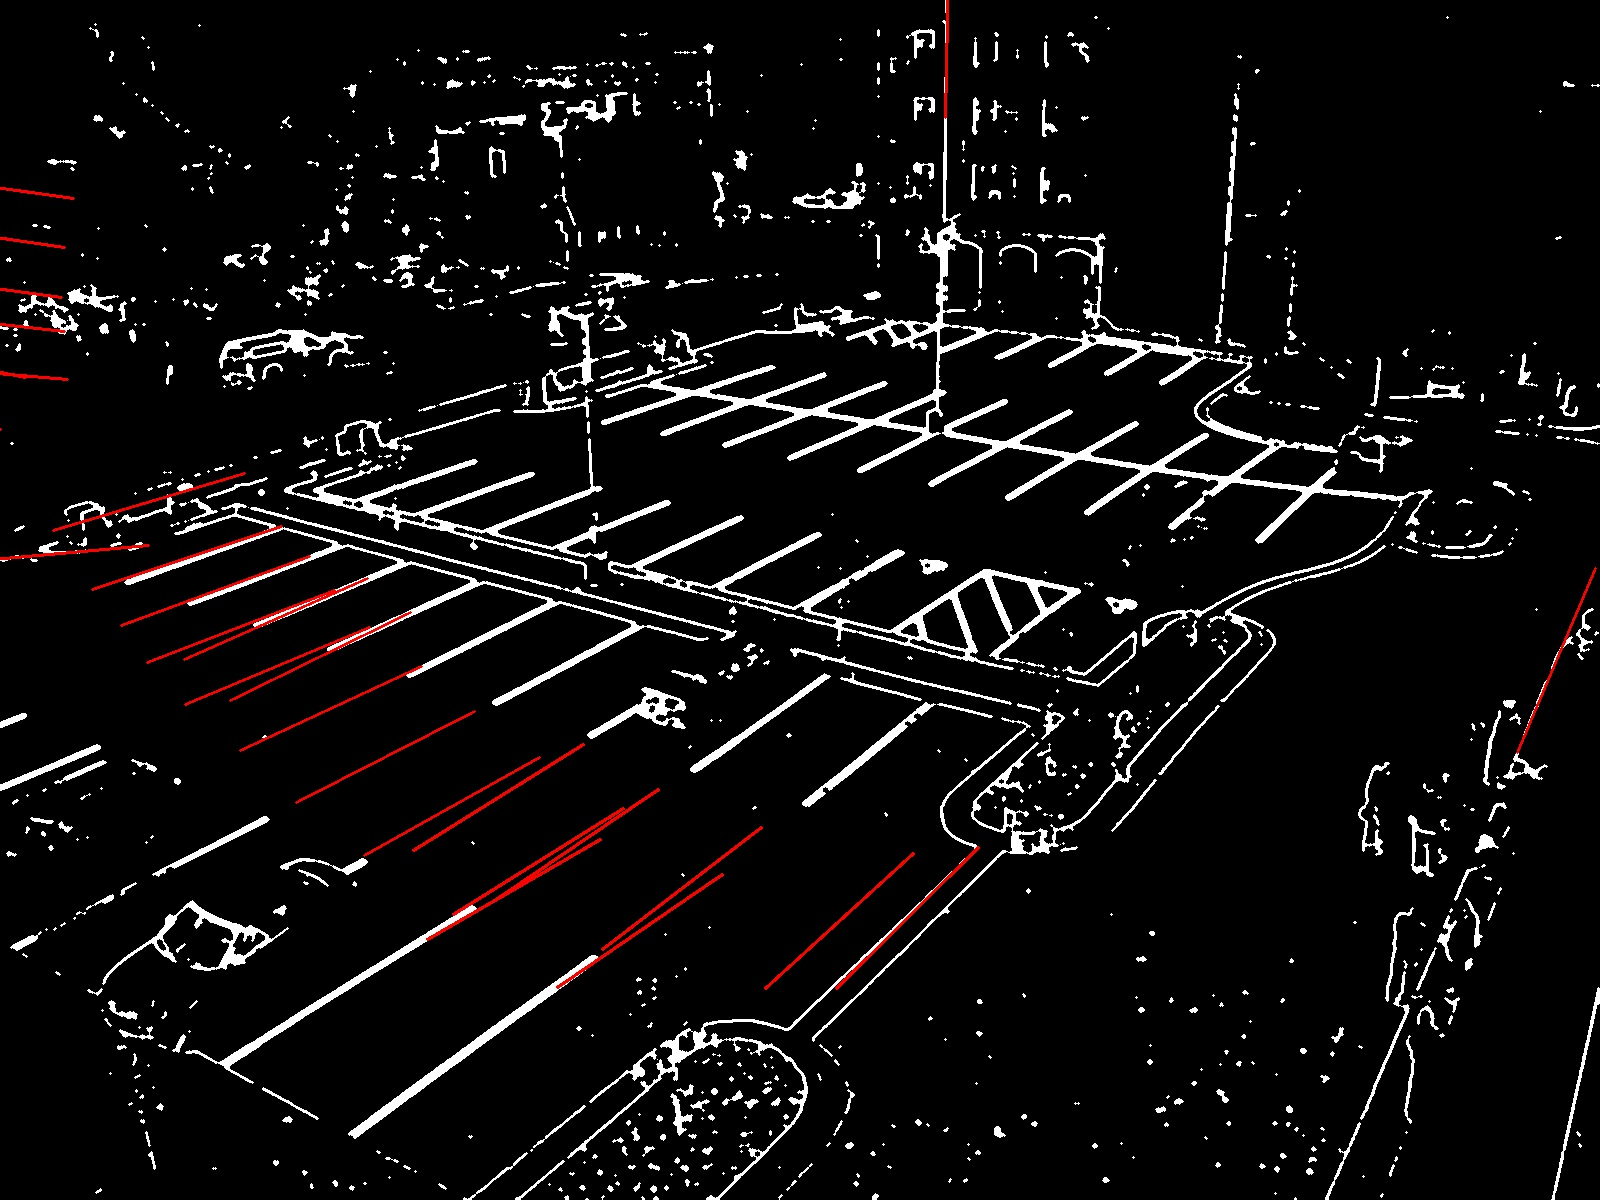
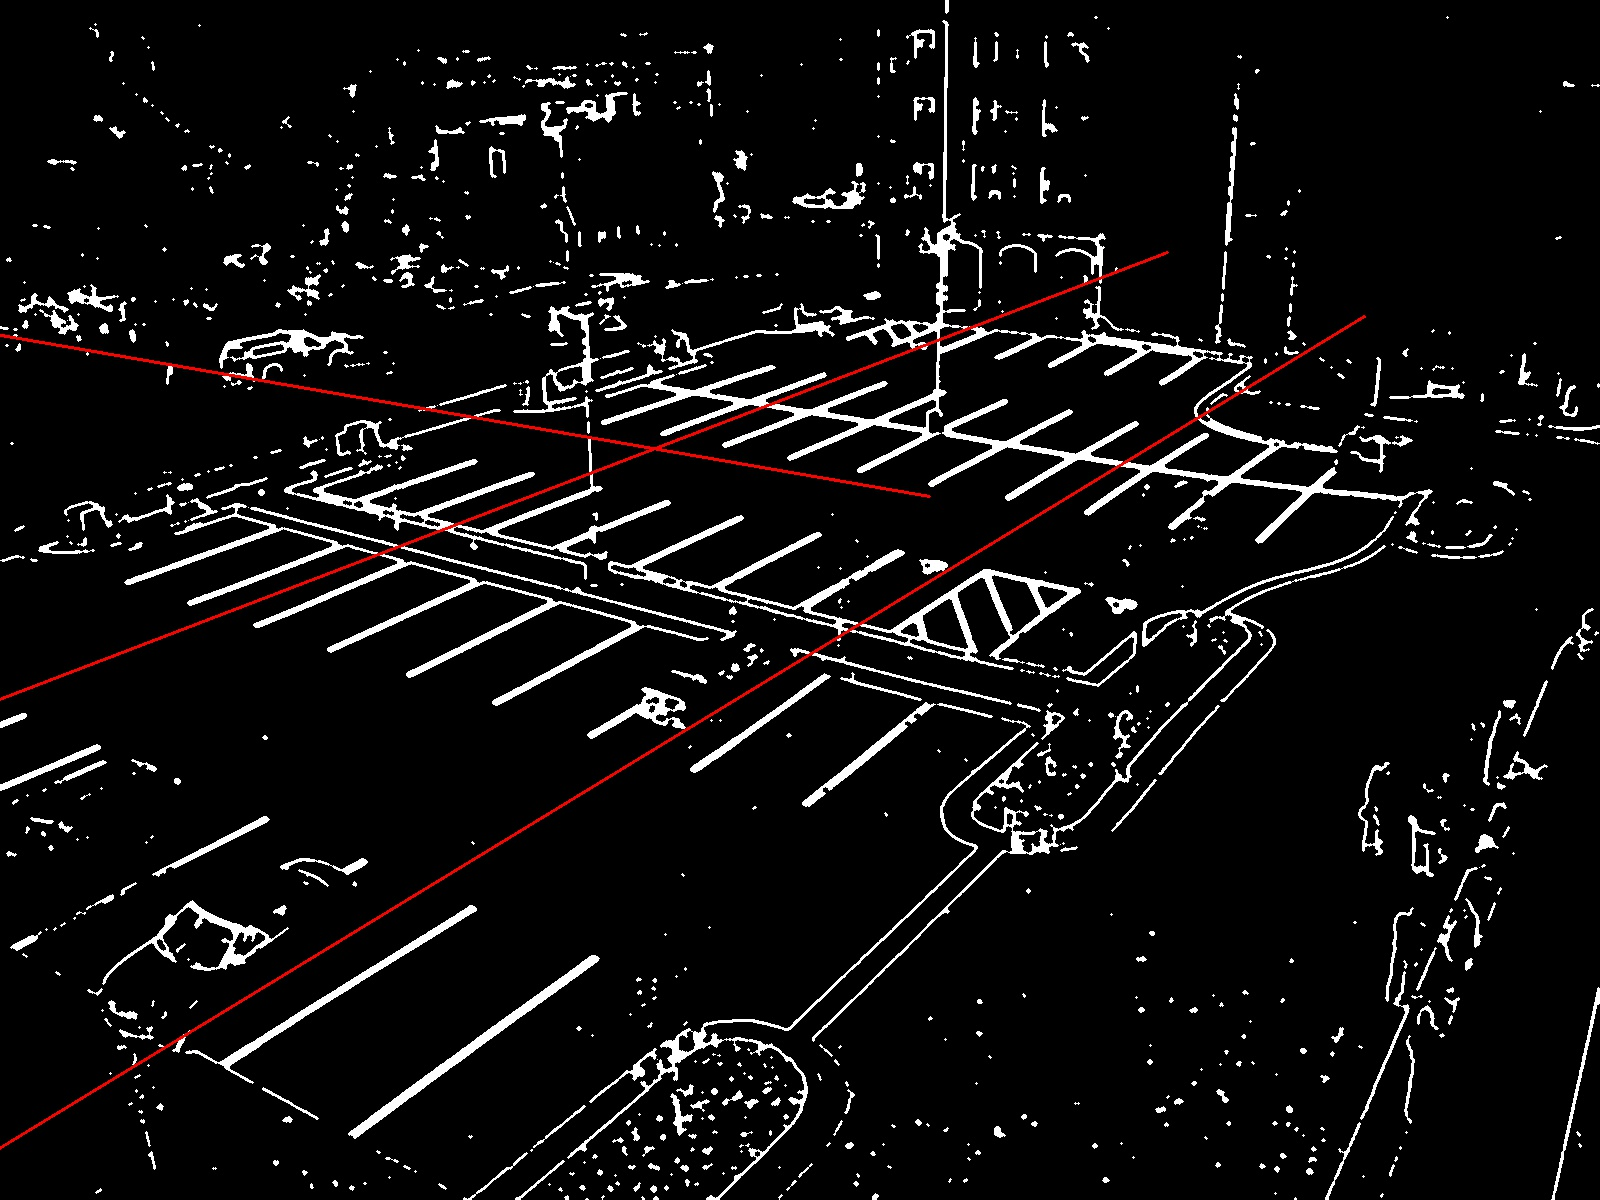
Muda algoritmo de similaridade

diff --git a/src/main.cpp b/src/main.cpp
@@ -1,5 +1,3 @@
-#include <cfloat>
-
 #include <opencv2/opencv.hpp>
 
 using namespace cv;
@@ -33,16 +31,16 @@ Mat ExtractFeatureMat(Mat featuresMat, int featureNum);
 #define MAX_LINE_GAP 5.
 #define TAM_DILATA 7 // Pixels
 #define TAM_ERODE 5 // Pixels
-#define TAM_LINE 100 // Pixels
+#define TAM_LINE 1000 // Pixels
 // Termina Hough
 
 // Começa AKM
 #define SENSIBILITY 5.
-#define LINE_THRES 70.
-#define SEGLINE_THRES 50.
+#define LINE_THRES 0.5
+#define LINE_MAX_DIST 75
 
-std::vector<Vec2f> AKM( std::vector<Vec2f> input, float threshold, unsigned int minLines = 1 );
-std::vector<Vec4i> AKM( std::vector<Vec4i> input, float threshold, unsigned int minLines = 1 );
+std::vector<Vec2f> AKM( std::vector<Vec2f> input, float threshold, float lineMaxDist = LINE_MAX_DIST, unsigned int minLines = 1 );
+double linesSimilarity( Vec2f lineA, Vec2f lineB, float maxDistance = 50 );
 // Termina AKM
 
 int main(int argc, char** argv){
@@ -333,12 +331,13 @@ int main(int argc, char** argv){
 
 			// Compute e desenha a clusterização adaptativa
 			std::vector<Vec2f> clusters = AKM(lines, LINE_THRES);
+			std::vector<Vec2f> clustersOfClusters = AKM(clusters, 0.9, 100000, 3);
 
 			Mat houghWithClusteredLines = gray.clone();
 			cvtColor(operado, houghWithClusteredLines, COLOR_GRAY2BGR);
-			for( unsigned int i = 0; i < clusters.size(); i++ ) {
-				float rho = clusters[i][0];
-				float theta = clusters[i][1];
+			for( unsigned int i = 0; i < clustersOfClusters.size(); i++ ) {
+				float rho = clustersOfClusters[i][0];
+				float theta = clustersOfClusters[i][1];
 
 				double a = cos(theta), b = sin(theta);
 				double x0 = a*rho, y0 = b*rho;
@@ -350,32 +349,6 @@ int main(int argc, char** argv){
 
 			// imshow("Hough - Linhas Clusterizadas", houghWithClusteredLines);
 			imwrite("./debug-data/hough-linhas-cluster.jpg", houghWithClusteredLines);
-		}
-
-		{ // Acha os segmentos de linhas por Hough
-			std::vector<Vec4i> segLines;
-			HoughLinesP(operado, segLines, DIST_RES, ANGLE_RES, HOUGH_THRES, MIN_LINE_LEN, MAX_LINE_GAP);
-
-			Mat houghWithLines = gray.clone();
-			cvtColor(operado, houghWithLines, COLOR_GRAY2BGR);
-			for( unsigned int i = 0; i < segLines.size(); i++ ) {
-				line( houghWithLines, Point(segLines[i][0], segLines[i][1]), Point(segLines[i][2], segLines[i][3]), Scalar(0,0,255), 1, 8 );
-			}
-
-			// imshow("Hough - Segmento de Linhas", houghWithLines);
-			imwrite("./debug-data/hough-segmentolinhas.jpg", houghWithLines);
-
-			// Compute e desenha a clusterização adaptativa
-			std::vector<Vec4i> clusters = AKM(segLines, SEGLINE_THRES);
-
-			Mat houghWithClusteredLines = gray.clone();
-			cvtColor(operado, houghWithClusteredLines, COLOR_GRAY2BGR);
-			for( unsigned int i = 0; i < clusters.size(); i++ ) {
-				line( houghWithClusteredLines, Point(clusters[i][0], clusters[i][1]), Point(clusters[i][2], clusters[i][3]), Scalar(0,0,255), 2, 8 );
-			}
-
-			// imshow("Hough - Segmento de Linhas Clusterizado", houghWithClusteredLines);
-			imwrite("./debug-data/hough-segmentolinhas-cluster.jpg", houghWithClusteredLines);
 		}
 	}
 	// Termina Hough
@@ -400,77 +373,28 @@ Mat ExtractFeatureMat(Mat featuresMat, int featureNum) {
 // Termina GLCM
 
 // Começa AKM
-std::vector<Vec2f> AKM( std::vector<Vec2f> input, float threshold, unsigned int minLines ) {
+std::vector<Vec2f> AKM( std::vector<Vec2f> input, float threshold, float lineMaxDist, unsigned int minLines ) {
 	std::vector<Vec2f> means;
 	std::vector<unsigned int> amount;
 	means.push_back(input[0]);
 	amount.push_back(1);
 	for(unsigned int i = 1; i < input.size(); ++i) {
-		unsigned int smallestK = 0;
-		float smallestDist = FLT_MAX;
-
-		Point pt1, pt2;
-		{ // Computa pontos iniciais e finais da linha
-			float rho = input[i][0];
-			float theta = input[i][1];
-
-			double a = cos(theta), b = sin(theta);
-			double x0 = a*rho, y0 = b*rho;
-
-			pt1 = Point(cvRound( x0 + SENSIBILITY*(-b) ), cvRound( y0 + SENSIBILITY*a ));
-			pt2 = Point(cvRound( x0 - SENSIBILITY*(-b) ), cvRound( y0 - SENSIBILITY*a ));
-		}
+		unsigned int closestK = 0;
+		double biggestSimilarity = 0.;
 		for(unsigned int k = 0; k < means.size(); ++k) {
-			Point ptM1, ptM2;
-			{ // Computa pontos iniciais e finais da linha
-				float rho = means[k][0];
-				float theta = means[k][1];
-
-				double a = cos(theta), b = sin(theta);
-				double x0 = a*rho, y0 = b*rho;
-
-				ptM1 = Point(cvRound( x0 + SENSIBILITY*(-b) ), cvRound( y0 + SENSIBILITY*a ));
-				ptM2 = Point(cvRound( x0 - SENSIBILITY*(-b) ), cvRound( y0 - SENSIBILITY*a ));
-			}
-			Point distance1 = pt1 - ptM1;
-			Point distance2 = pt2 - ptM2;
-			float dist = std::sqrt( std::pow(distance1.x, 2) + std::pow(distance1.y, 2) ) + std::sqrt( std::pow(distance2.x, 2) + std::pow(distance2.y, 2) );
-			if(dist < smallestDist) {
-				smallestDist = dist;
-				smallestK = k;
+			double similarity = linesSimilarity(input[i], means[k], lineMaxDist);
+			if(similarity > biggestSimilarity) {
+				biggestSimilarity = similarity;
+				closestK = k;
 			}
 		}
-		if(smallestDist < threshold) {
-			Vec2f oldMean = means[smallestK] * ((float)amount[smallestK]++);
-			means[smallestK] = (oldMean + input[i])/((float)amount[smallestK]);
+		if(biggestSimilarity > threshold) {
+			Vec2f oldMean = means[closestK] * ((float)amount[closestK]++);
+			means[closestK] = (oldMean + input[i])/((float)amount[closestK]);
 			for(unsigned int a = 0; a < means.size(); ++a) {
-				Point pt1, pt2;
-				{ // Computa pontos iniciais e finais da linha
-					float rho = means[a][0];
-					float theta = means[a][1];
-
-					double c = cos(theta), s = sin(theta);
-					double x0 = c*rho, y0 = s*rho;
-
-					pt1 = Point(cvRound( x0 + SENSIBILITY*(-s) ), cvRound( y0 + SENSIBILITY*c ));
-					pt2 = Point(cvRound( x0 - SENSIBILITY*(-s) ), cvRound( y0 - SENSIBILITY*c ));
-				}
 				for(unsigned int b = a+1; b < means.size(); ++b) {
-					Point ptM1, ptM2;
-					{ // Computa pontos iniciais e finais da linha
-						float rho = means[b][0];
-						float theta = means[b][1];
-
-						double c = cos(theta), s = sin(theta);
-						double x0 = c*rho, y0 = s*rho;
-
-						ptM1 = Point(cvRound( x0 + SENSIBILITY*(-s) ), cvRound( y0 + SENSIBILITY*c ));
-						ptM2 = Point(cvRound( x0 - SENSIBILITY*(-s) ), cvRound( y0 - SENSIBILITY*c ));
-					}
-					Point distance1 = pt1 - ptM1;
-					Point distance2 = pt2 - ptM2;
-					float dist = std::sqrt( std::pow(distance1.x, 2) + std::pow(distance1.y, 2) ) + std::sqrt( std::pow(distance2.x, 2) + std::pow(distance2.y, 2) );
-					if(dist < threshold) {
+					double similarity = linesSimilarity(means[a], means[b], LINE_MAX_DIST);
+					if(similarity > threshold) {
 						float newAmount = amount[b]+amount[a];
 						Vec2f newMean = ( means[b]*((float)amount[b]) + means[a]*((float)amount[a]) )/newAmount;
 						means[a] = newMean;
@@ -494,50 +418,9 @@ std::vector<Vec2f> AKM( std::vector<Vec2f> input, float threshold, unsigned int 
 	return means;
 }
 
-std::vector<Vec4i> AKM( std::vector<Vec4i> input, float threshold, unsigned int minLines ) {
-	std::vector<Vec4i> means;
-	std::vector<unsigned int> amount;
-	means.push_back(input[0]);
-	amount.push_back(1);
-	for(unsigned int i = 1; i < input.size(); ++i) {
-		unsigned int smallestK = 0;
-		float smallestDist = FLT_MAX;
-		for(unsigned int k = 0; k < means.size(); ++k) {
-			Vec4i distance = input[i] - means[k];
-			float dist = std::sqrt( std::pow(distance[0], 2) + std::pow(distance[1], 2) ) + std::sqrt( std::pow(distance[2], 2) + std::pow(distance[3], 2) );
-			if(dist < smallestDist) {
-				smallestDist = dist;
-				smallestK = k;
-			}
-		}
-		if(smallestDist < threshold) {
-			Vec4i oldMean = means[smallestK] * ((float)amount[smallestK]++);
-			means[smallestK] = (oldMean + input[i])/((float)amount[smallestK]);
-			for(unsigned int a = 0; a < means.size(); ++a) {
-				for(unsigned int b = a+1; b < means.size(); ++b) {
-					Vec4i distance = means[b] - means[a];
-					float dist = std::sqrt( std::pow(distance[0], 2) + std::pow(distance[1], 2) ) + std::sqrt( std::pow(distance[2], 2) + std::pow(distance[3], 2) );
-					if(dist < threshold) {
-						float newAmount = amount[b]+amount[a];
-						Vec4i newMean = ( means[b]*((float)amount[b]) + means[a]*((float)amount[a]) )/newAmount;
-						means[a] = newMean;
-						amount[a] = newAmount;
-						means.erase(means.begin()+b);
-						amount.erase(amount.begin()+ b--);
-					}
-				}
-			}
-		} else {
-			means.push_back(input[i]);
-			amount.push_back(1);
-		}
-	}
-	for(unsigned int a = 0; a < means.size(); ++a) {
-		if(amount[a] < minLines) {
-			means.erase(means.begin()+a);
-			amount.erase(amount.begin()+ a--);
-		}
-	}
-	return means;
+double linesSimilarity(Vec2f lineA, Vec2f lineB, float maxDistance) {
+	double angleSim = 1 - std::abs(lineA[1] - lineB[1])/(M_PI/2);
+	double distSim = 1 - std::abs(lineA[0] - lineB[0])/maxDistance;
+	return angleSim * (distSim > 0 ? distSim : 0);
 }
 // Termina AKM
